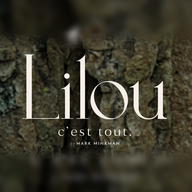
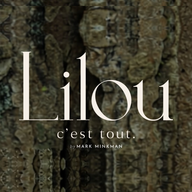
App-icoon: schors zonder waas (gespiegeld aangevuld); versie 61
Claude-Session: https://claude.ai/code/session_01RBQ5cAfiLBUc4FgPNY2xrE

diff --git a/lilou-rooster/sw.js b/lilou-rooster/sw.js
@@ -1,5 +1,5 @@
 // Eenvoudige service worker: app-bestanden offline beschikbaar, data altijd live.
-const CACHE = 'rooster-v60';
+const CACHE = 'rooster-v61';
 const SHELL = ['./', 'index.html', 'app.css', 'app.js', 'config.js', 'icon-192.png', 'brand/lilou-wordmark-rood.png', 'brand/lilou-wordmark-creme.png', 'manifest.webmanifest', 'vendor/fonts.css', 'vendor/supabase.min.js'];
 
 self.addEventListener('install', e => {

diff --git a/lilou-rooster/index.html b/lilou-rooster/index.html
@@ -17,7 +17,7 @@
 <body>
   <div id="app"><div class="boot">Laden…</div></div>
   <div id="toasts" aria-live="polite"></div>
-  <script src="config.js?v=60"></script>
-  <script src="app.js?v=60"></script>
+  <script src="config.js?v=61"></script>
+  <script src="app.js?v=61"></script>
 </body>
 </html>
